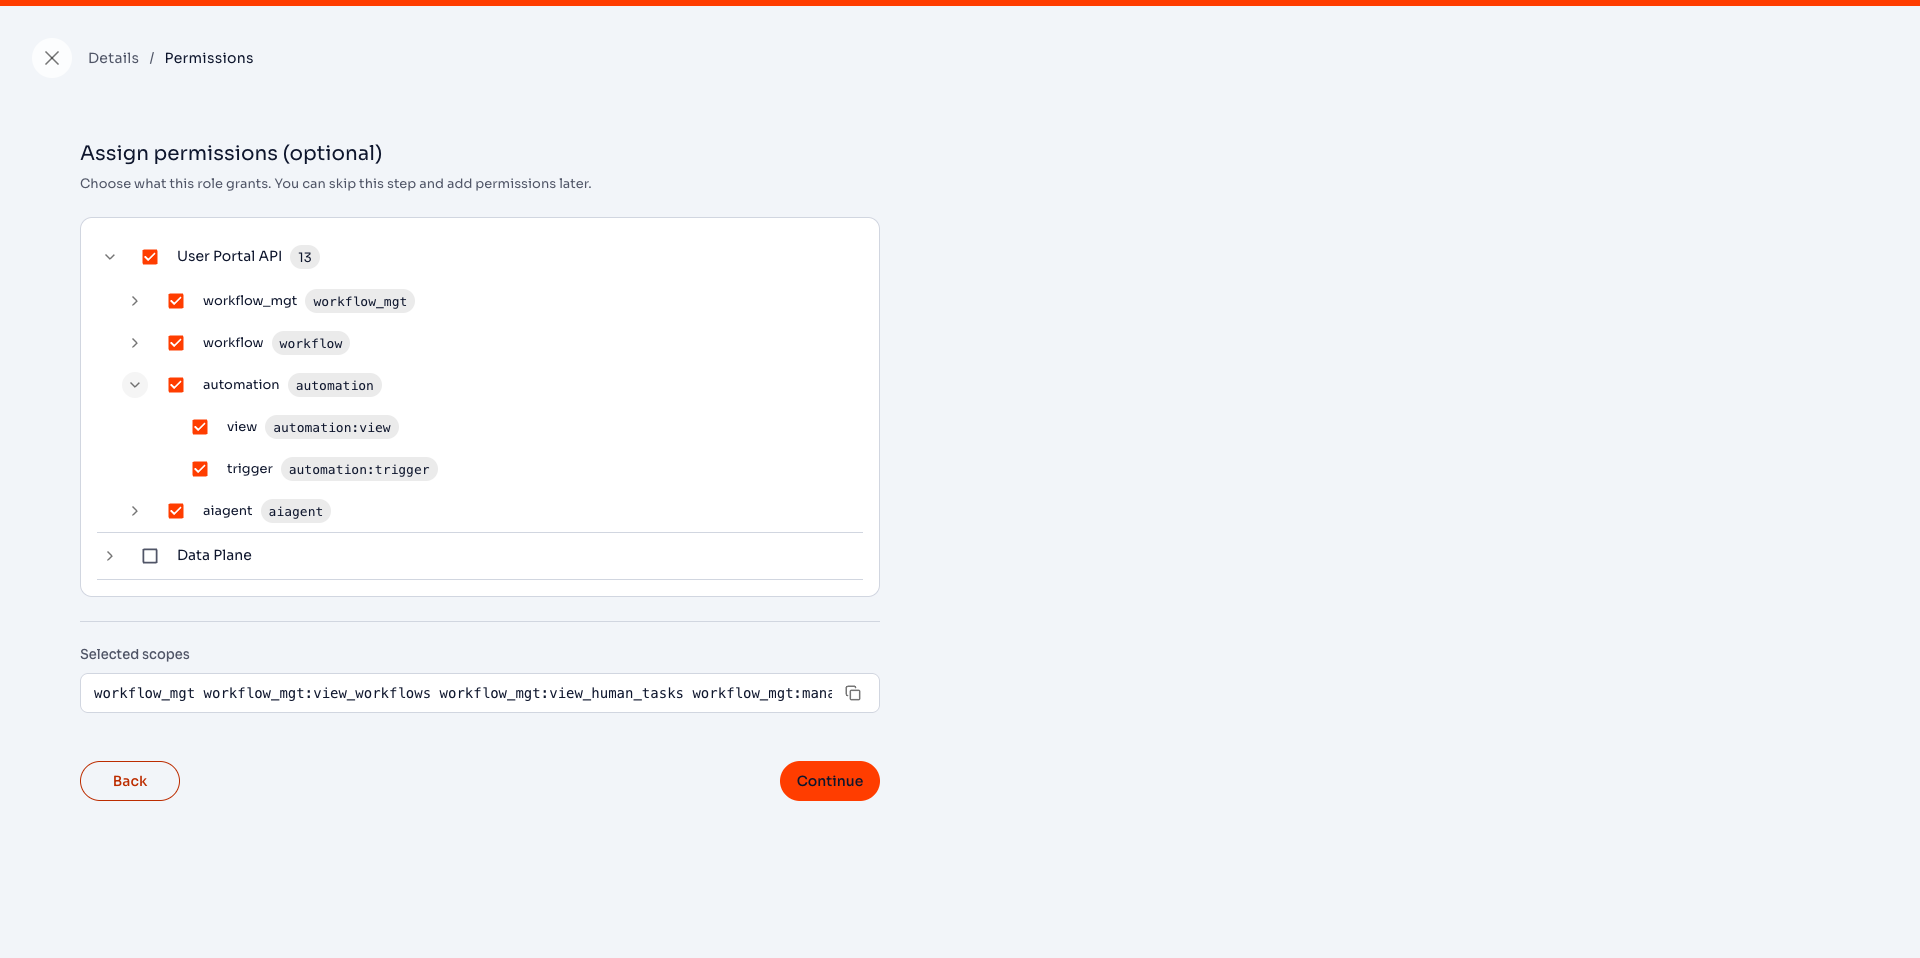
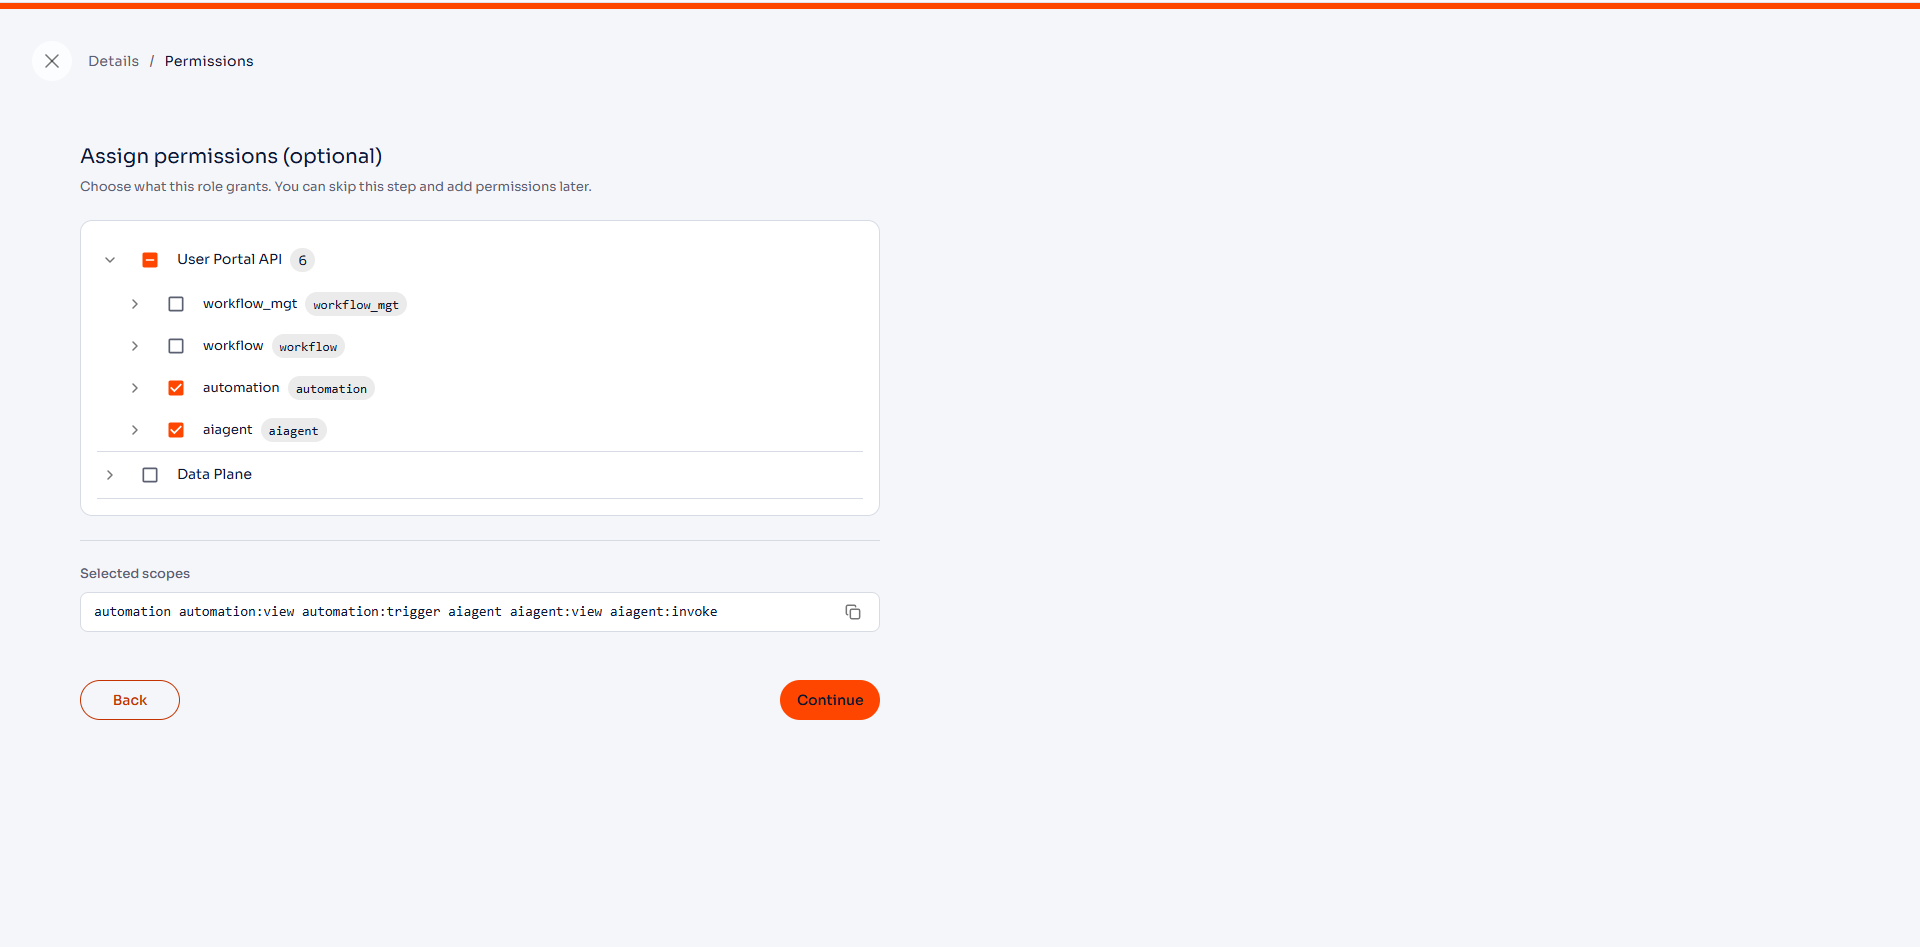
docs(v3): add live screenshots for navigating to IAM and creating a role
Add screenshots for the previously image-less "Open the Integration User
Portal project" steps (app menu > Identity & Access Management, then the
project switcher), and a full step-by-step sequence for "Create a role"
(Roles nav, Add role, role name, permissions, and the resulting role in
the list). Replace the old create-role.png, which showed every scope
selected, with a capture that matches the step's own wording by selecting
just the automation and aiagent groups.

diff --git a/en/docs/manage/users-and-access/user-portal/manage-users.md b/en/docs/manage/users-and-access/user-portal/manage-users.md
@@ -65,7 +65,24 @@ Changes to the permissions of a role can take up to 10 minutes to appear in User
 1. Sign in to [Choreo Cloud](https://console.cloud.choreolabs.com).
 2. In the top navigation, click the organization list and select your organization.
 3. Click the app menu at the top left, then under **Categories**, click **Identity & Access Management**.
-4. Click the **Integration User Portal** project.
+
+    <ThemedImage
+        alt="App menu with Identity & Access Management highlighted under Categories"
+        sources={{
+            light: useBaseUrl('/img/manage/cloud/user-portal/navigate-to-iam.png'),
+            dark: useBaseUrl('/img/manage/cloud/user-portal/navigate-to-iam.png'),
+        }}
+    />
+
+4. Click the project list at the top, then select the **Integration User Portal** project.
+
+    <ThemedImage
+        alt="Choreo Identity & Access Management overview page with the project list highlighted, set to Integration User Portal"
+        sources={{
+            light: useBaseUrl('/img/manage/cloud/user-portal/iam-project-switcher.png'),
+            dark: useBaseUrl('/img/manage/cloud/user-portal/iam-project-switcher.png'),
+        }}
+    />
 
 ## Give a user access to the User Portal
 
@@ -206,14 +223,41 @@ In the **Integration User Portal** project, click **Roles** in the left navigati
 ### Create a role
 
 1. In the **Integration User Portal** project, click **Roles** in the left navigation menu.
+
+    <ThemedImage
+        alt="Integration User Portal project overview page with Roles highlighted in the left navigation menu"
+        sources={{
+            light: useBaseUrl('/img/manage/cloud/user-portal/navigate-to-roles.png'),
+            dark: useBaseUrl('/img/manage/cloud/user-portal/navigate-to-roles.png'),
+        }}
+    />
+
 2. Click **Add role**.
+
+    <ThemedImage
+        alt="Roles page with no roles yet and the Add role button highlighted"
+        sources={{
+            light: useBaseUrl('/img/manage/cloud/user-portal/add-role-button.png'),
+            dark: useBaseUrl('/img/manage/cloud/user-portal/add-role-button.png'),
+        }}
+    />
+
 3. In **Role name**, enter a name for the role, then click **Continue**.
+
+    <ThemedImage
+        alt="Role name step with the role name PortalUser entered"
+        sources={{
+            light: useBaseUrl('/img/manage/cloud/user-portal/role-name-step.png'),
+            dark: useBaseUrl('/img/manage/cloud/user-portal/role-name-step.png'),
+        }}
+    />
+
 4. Under **Assign permissions**, select the permissions for the role. The scopes of the User Portal are under **User Portal API**. See [Scopes](#scopes).
 
     To select all the permissions in a group, select the check box of the group.
 
     <ThemedImage
-        alt="Assign permissions step with all the User Portal API scopes selected"
+        alt="Assign permissions step with the automation and aiagent groups selected under User Portal API"
         sources={{
             light: useBaseUrl('/img/manage/cloud/user-portal/create-role.png'),
             dark: useBaseUrl('/img/manage/cloud/user-portal/create-role.png'),
@@ -221,6 +265,16 @@ In the **Integration User Portal** project, click **Roles** in the left navigati
     />
 
 5. Click **Continue**.
+
+The role appears on the **Roles** page.
+
+<ThemedImage
+    alt="Roles page with the newly created PortalUser role"
+    sources={{
+        light: useBaseUrl('/img/manage/cloud/user-portal/role-created.png'),
+        dark: useBaseUrl('/img/manage/cloud/user-portal/role-created.png'),
+    }}
+/>
 
 ### Change the permissions of a role
 
